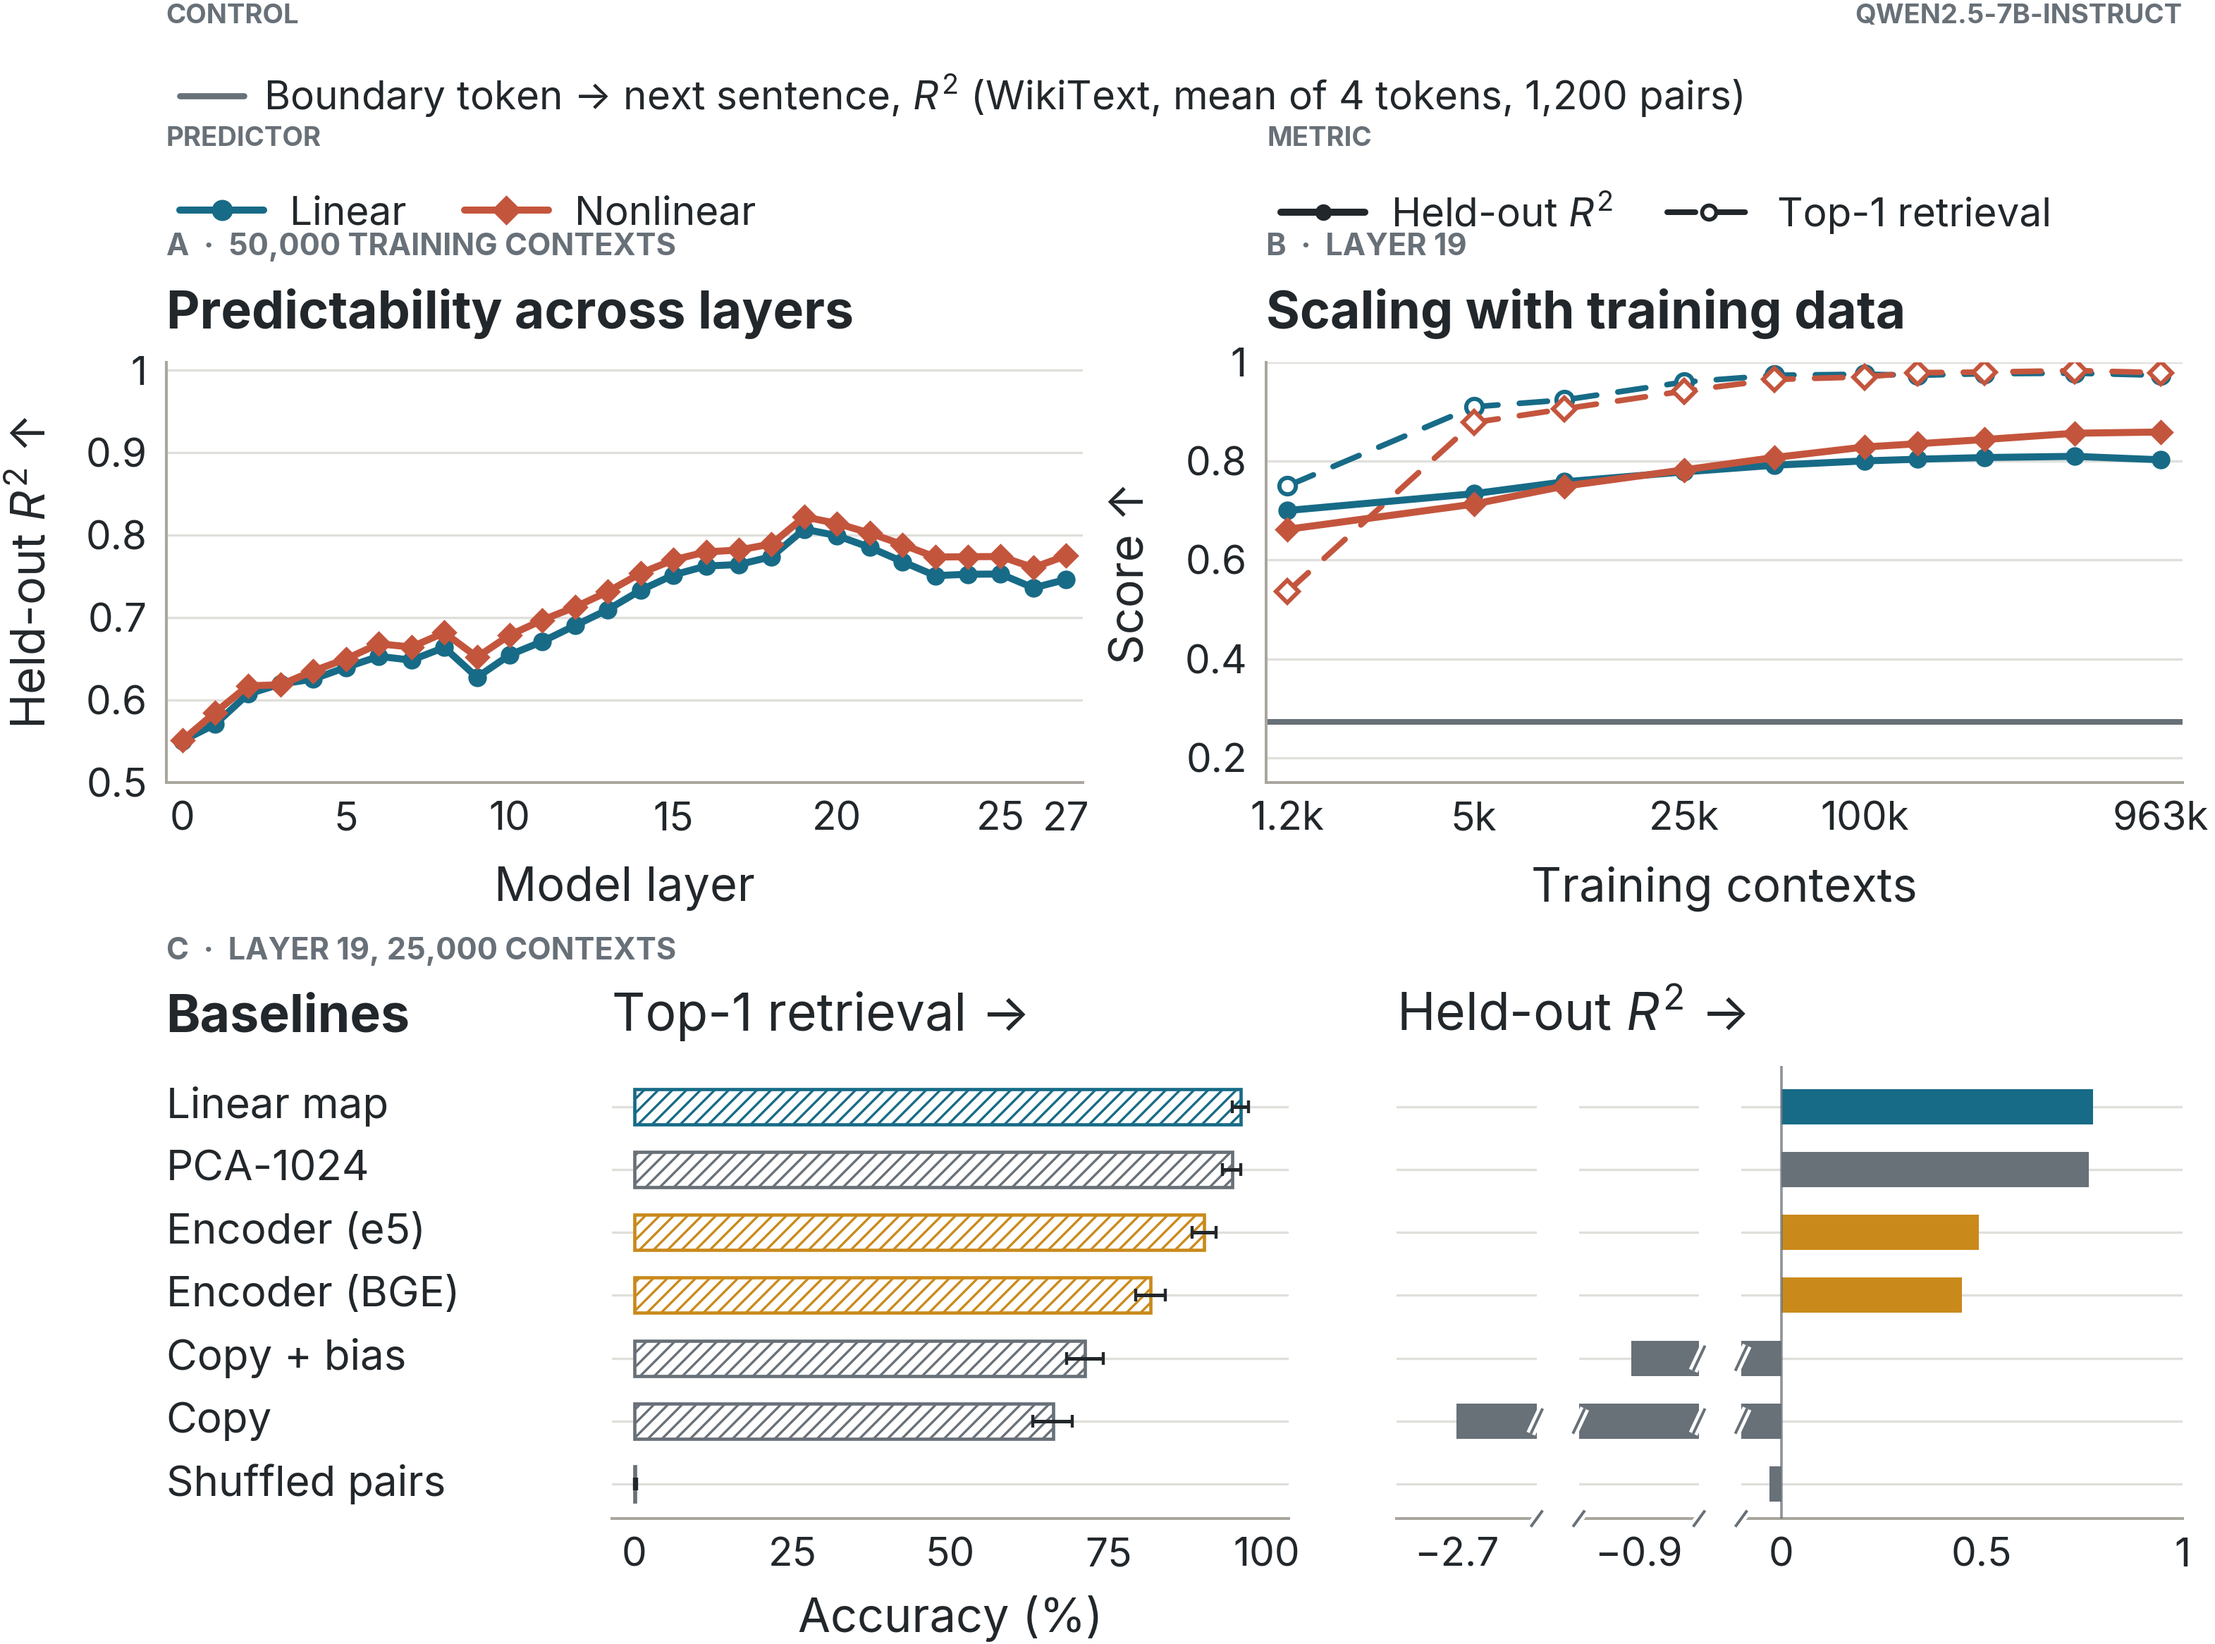
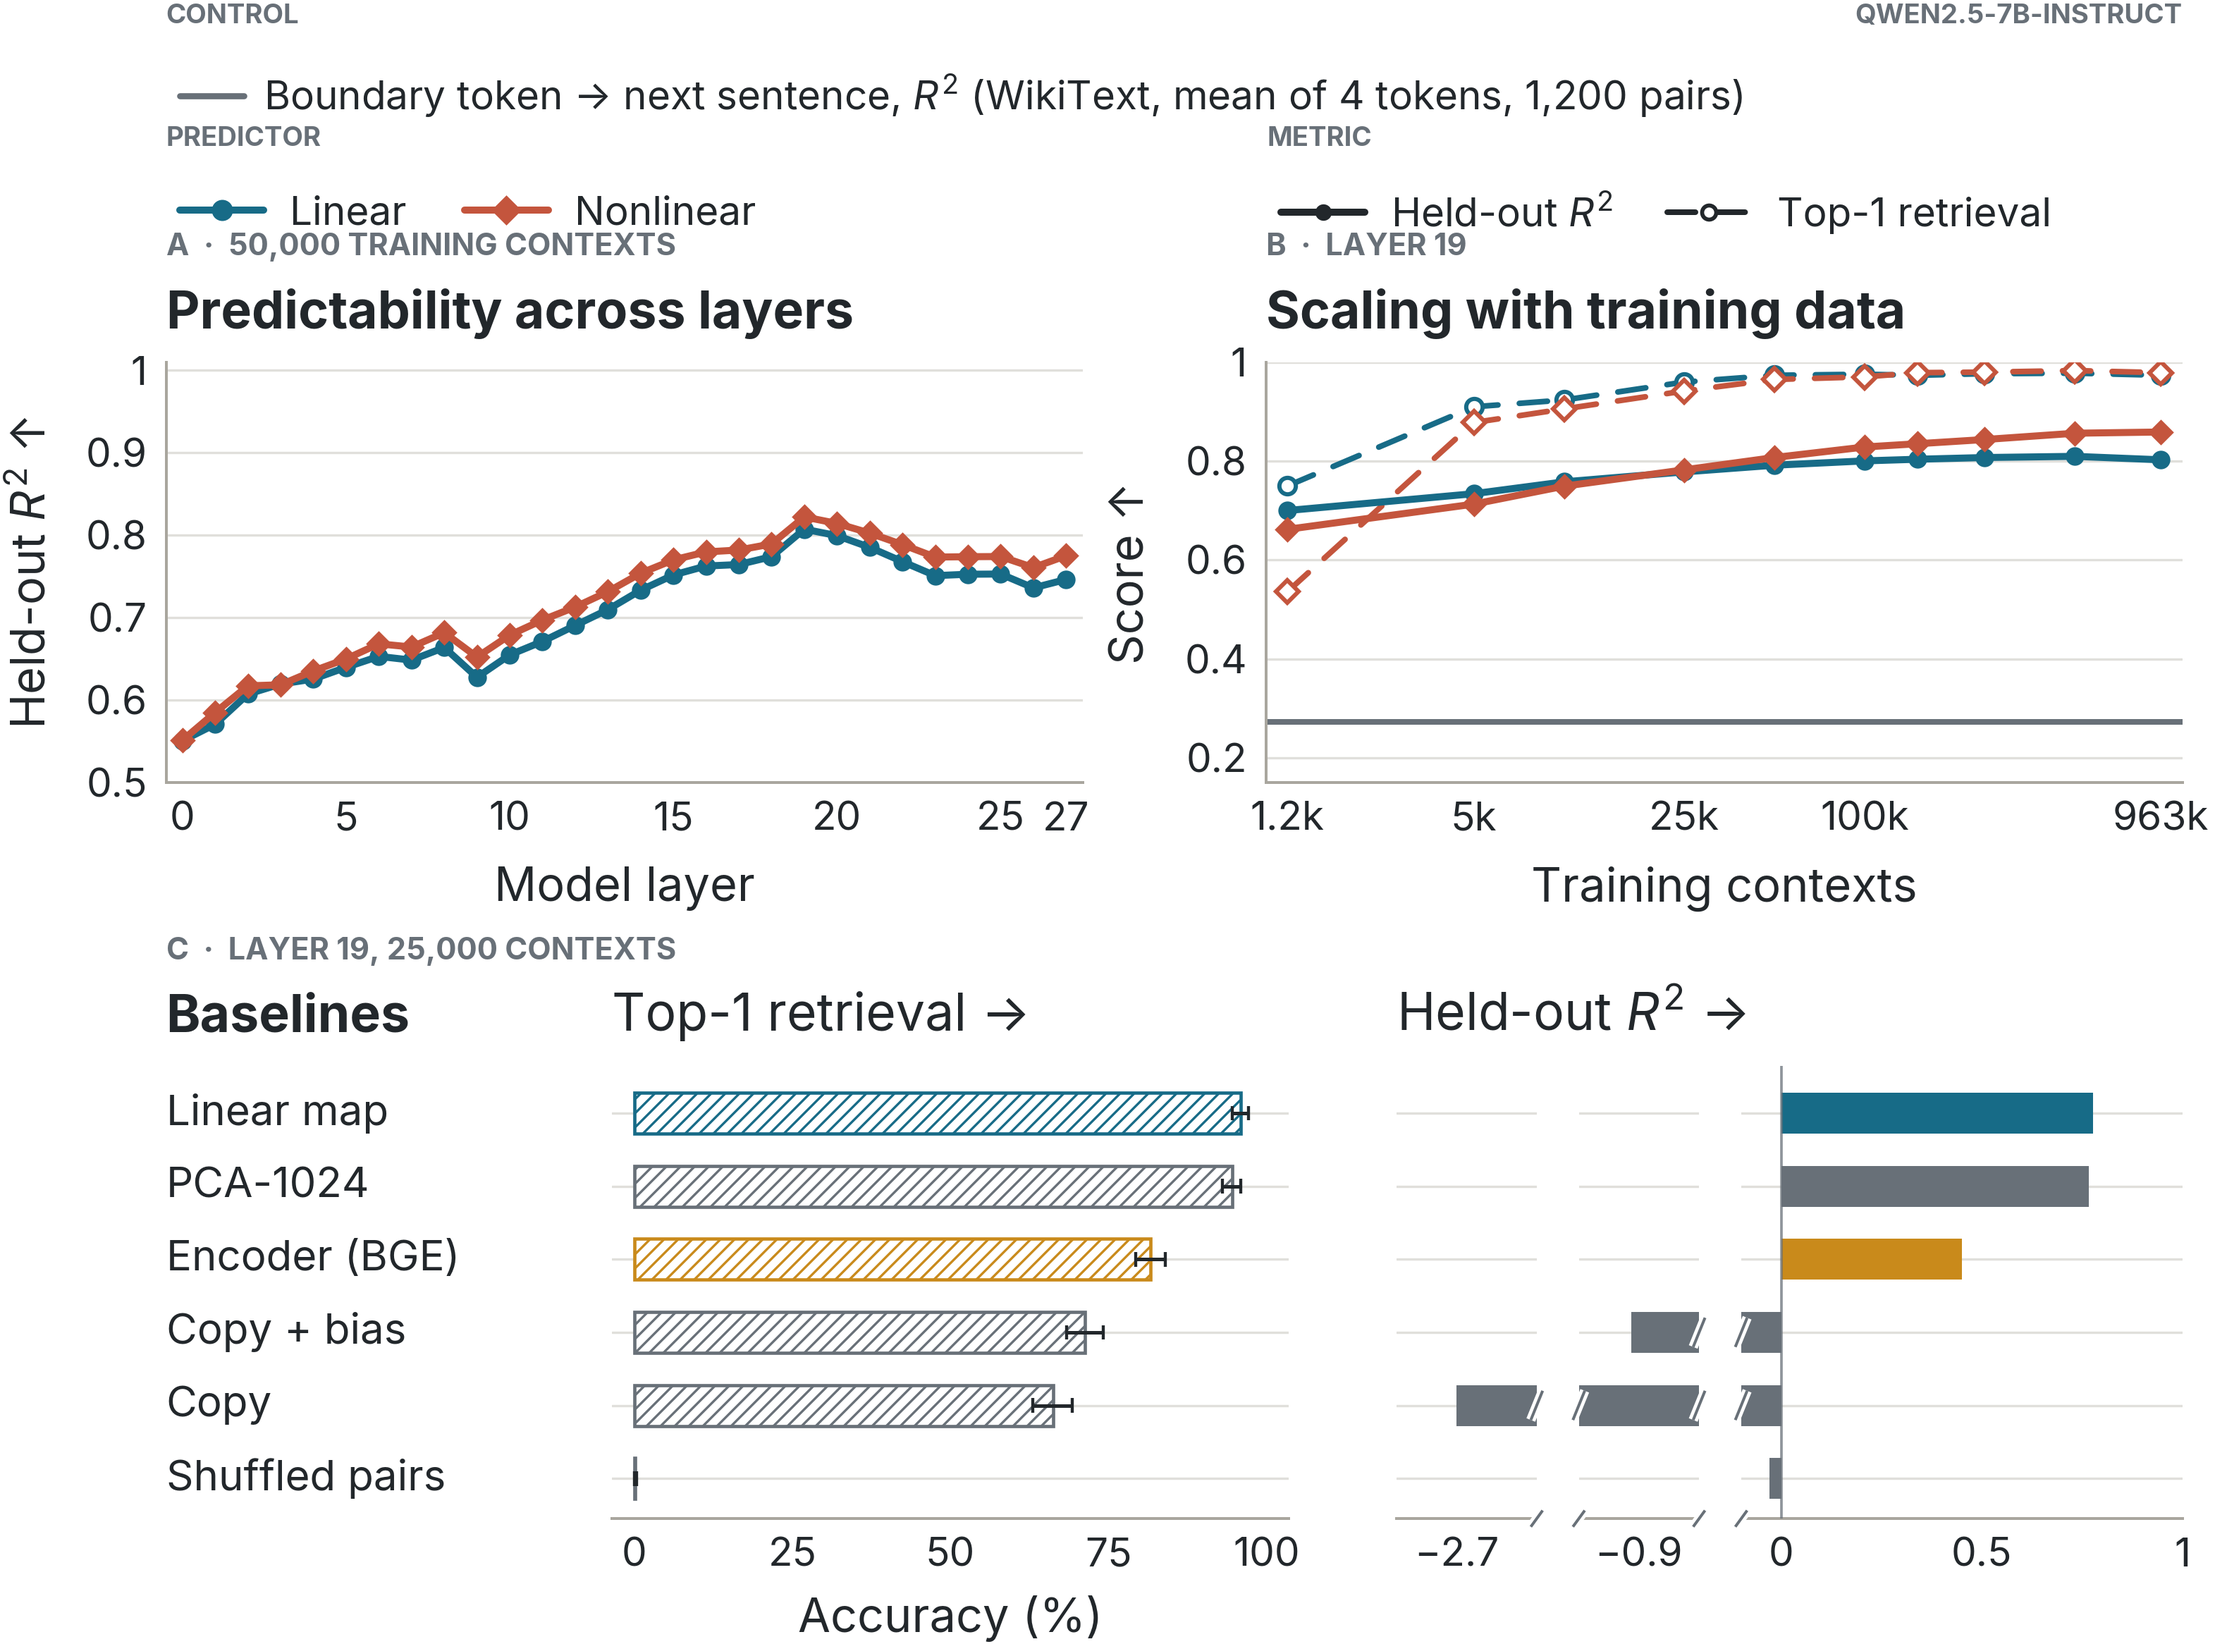
Remove Encoder e5 from the paper baselines panel

diff --git a/tests/test_make_paper_figure2_baselines.py b/tests/test_make_paper_figure2_baselines.py
@@ -39,7 +39,7 @@ def test_baseline_bars_align_and_axis_cuts_preserve_endpoints(tmp_path):
         labels, retrieval = [axes[k] for k in ("baseline-labels", "baseline-top1")]
         r2_axes = [axes[f"baseline-r2-{j}"] for j in range(3)]
         fig.savefig(tmp_path / "baselines.pdf")
-        assert all(arm["key"] != "floor_e5" for arm in baselines["arms"])
+        assert all(arm["key"] not in {"floor_e5", "enc_e5"} for arm in baselines["arms"])
         for i, arm in enumerate(baselines["arms"]):
             text = next(t for t in labels.texts if t.get_text() == arm["label"])
             row_y = text.get_transform().transform(text.get_position())[1]

diff --git a/scripts/make_paper_figure2.py b/scripts/make_paper_figure2.py
@@ -142,7 +142,6 @@ DEFAULT_BASELINES_SOURCE = ROOT / "eval_results/issue_1901/fig2_baselines/fig2_b
 _ENCODER_COLOR = ROLES["other_source"].color
 BASELINE_ARMS: dict[str, dict] = {
     "anchor": {"label": "Linear map", "color": ROLES["linear"].color},
-    "enc_e5": {"label": "Encoder (e5)", "color": _ENCODER_COLOR},
     "enc_bge_cls": {"label": "Encoder (BGE)", "color": _ENCODER_COLOR},
     "pca1024": {"label": "PCA-1024", "color": ROLES["control"].color},
     "identity_bias": {"label": "Copy + bias", "color": ROLES["control"].color},

diff --git a/docs/paper_context_answer_map/ai_use_log.md b/docs/paper_context_answer_map/ai_use_log.md
@@ -86,3 +86,4 @@ programmatically, never generated from model memory.
 | 2026-09-09 | Codex removed the main-text theoretical-analysis subsection and added one brief discussion pointer to a preliminary quantitative appendix at Thomas's request ([Overleaf](https://www.overleaf.com/project/6a59c927290f8b8b5eee0055), 97fb7dea39c73f32e70407b40ce67a643d57c33d). Removed the qualitative and SAE-feature theory interpretation and its unused main-text source, while retaining quantitative kernel, spectrum, effective-rank, fixed-point, and refusal-pair results. Section 4.2's separate SAE prediction analysis was unchanged. | Existing numbers checked against current artifacts without rerunning experiments. Added projector and effective-rank definitions to keep the appendix self-contained; clarified that the 0.26 cosine concerns singular pairs. Independent Codex prose review and writing checks passed. Compiled with resolved references and inspected the changed page layouts. Rebased onto concurrent CoT edits, recompiled successfully (44 pages), and verified the fast-forward Overleaf push. Removed source remains recoverable from Git history. |
 | 2026-09-09 | Codex redesigned the baselines comparison into aligned horizontal retrieval and R² plots across the width below the layer and scaling panels. Added shared baseline labels, banked retrieval intervals, a focused R² scale with a zero line, and labeled arrows for off-scale copy scores. Updated the caption and plotting documentation. | Thomas approved the layout; his earlier removal of Encoder cosine remains in effect. All plotted source values and interval endpoints are preserved. Three focused rendering tests and independent Codex review passed. The color and grayscale exports and the compiled manuscript layout were inspected. [Overleaf](https://www.overleaf.com/project/6a59c927290f8b8b5eee0055). |
 | 2026-09-09 | Codex changed the baselines comparison to horizontal bars and replaced the off-scale annotations with two breaks in the R² axis and negative bars. Retained shared row labels, retrieval confidence intervals, and the statement-style caption. | Thomas requested bars and a cut axis. All three displayed R² segments use the same scale, every endpoint remains visible, and source values and interval endpoints are unchanged. Seven focused tests and independent Codex review passed. Color and grayscale exports and the compiled manuscript page were inspected, with references resolved. [Overleaf](https://www.overleaf.com/project/6a59c927290f8b8b5eee0055). |
+| 2026-09-09 | Codex removed Encoder (e5) from the baselines comparison and regenerated the color, grayscale, and vector exports. | Thomas requested the removal. Remaining rows, metric values, confidence intervals, axis cuts, and caption are unchanged. Seven existing rendering tests and lint checks passed. The grayscale audit and compiled manuscript page were inspected, with references resolved. [Overleaf](https://www.overleaf.com/project/6a59c927290f8b8b5eee0055). |

diff --git a/docs/paper_context_answer_map/plotting_style.md b/docs/paper_context_answer_map/plotting_style.md
@@ -142,7 +142,7 @@ cuts mark both omitted ranges on the axis and on bars crossing the cuts. All bar
 start at zero and every endpoint remains visible. The renderer rejects scores
 falling in an omitted range. This display was requested on 2026-09-09; the
 provenance sidecar retains the full scores and records the visible and omitted ranges.
-Encoder cosine remains excluded from the displayed methods.
+Encoder cosine and Encoder (e5) are excluded from the displayed methods.
 
 The panel reads `eval_results/issue_1901/fig2_baselines/fig2_baselines.json` and the
 copy baselines in `eval_results/issue_1901/figure2_extension_1200.json`. Its retrieval
